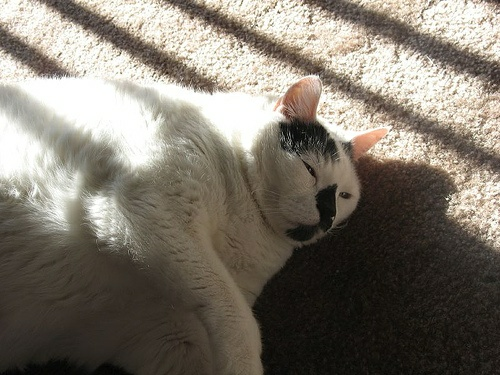
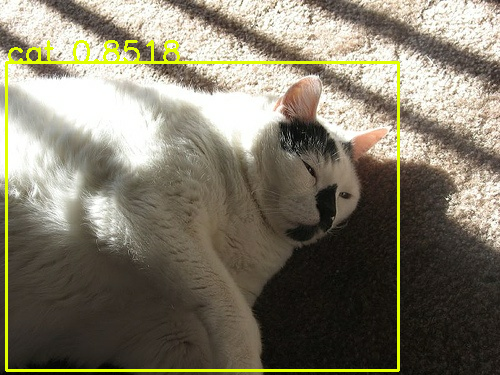
fix output box layer

Changed region(s): [[0.0, 0.088, 0.81, 0.9973]]

diff --git a/layers/output_box_layer.py b/layers/output_box_layer.py
@@ -16,11 +16,11 @@ class YoloOutputBoxLayer(tf.keras.layers.Layer):
         self.num_classes = num_classes
         self.training = training
         if output_layer == 1:
-            self.anchors_to_image_scale = 32
+            self.grid_to_image_scale = 32
         elif output_layer == 2:
-            self.anchors_to_image_scale = 16
+            self.grid_to_image_scale = 16
         else:
-            self.anchors_to_image_scale = 8
+            self.grid_to_image_scale = 8
 
     def build(self, input_shape):
         self.grid_h, self.grid_w = input_shape[1:3]
@@ -51,9 +51,11 @@ class YoloOutputBoxLayer(tf.keras.layers.Layer):
         grid = tf.expand_dims(grid, axis=2)     # (gx, gy, 1, 2)
 
         # box_xy: (batch, grid_h, grid_w, anchors, (x, y))
-        # each box (x, y)
         box_xy = (box_xy + tf.cast(grid, tf.float32)) / tf.cast((grid_w, grid_h), tf.float32)
-        box_wh = tf.exp(box_wh) * (grid_w, grid_h) * self.anchors_to_image_scale
+        # Calculate input image size
+        image_w, image_h = (grid_w * self.grid_to_image_scale, grid_h * self.grid_to_image_scale)
+        # box_wh: (batch, grid_h, grid_w, anchors, (w, h))
+        box_wh = tf.exp(box_wh) * (self.anchors / (image_w, image_h))
 
         box_x1y1 = box_xy - box_wh / 2
         box_x2y2 = box_xy + box_wh / 2
